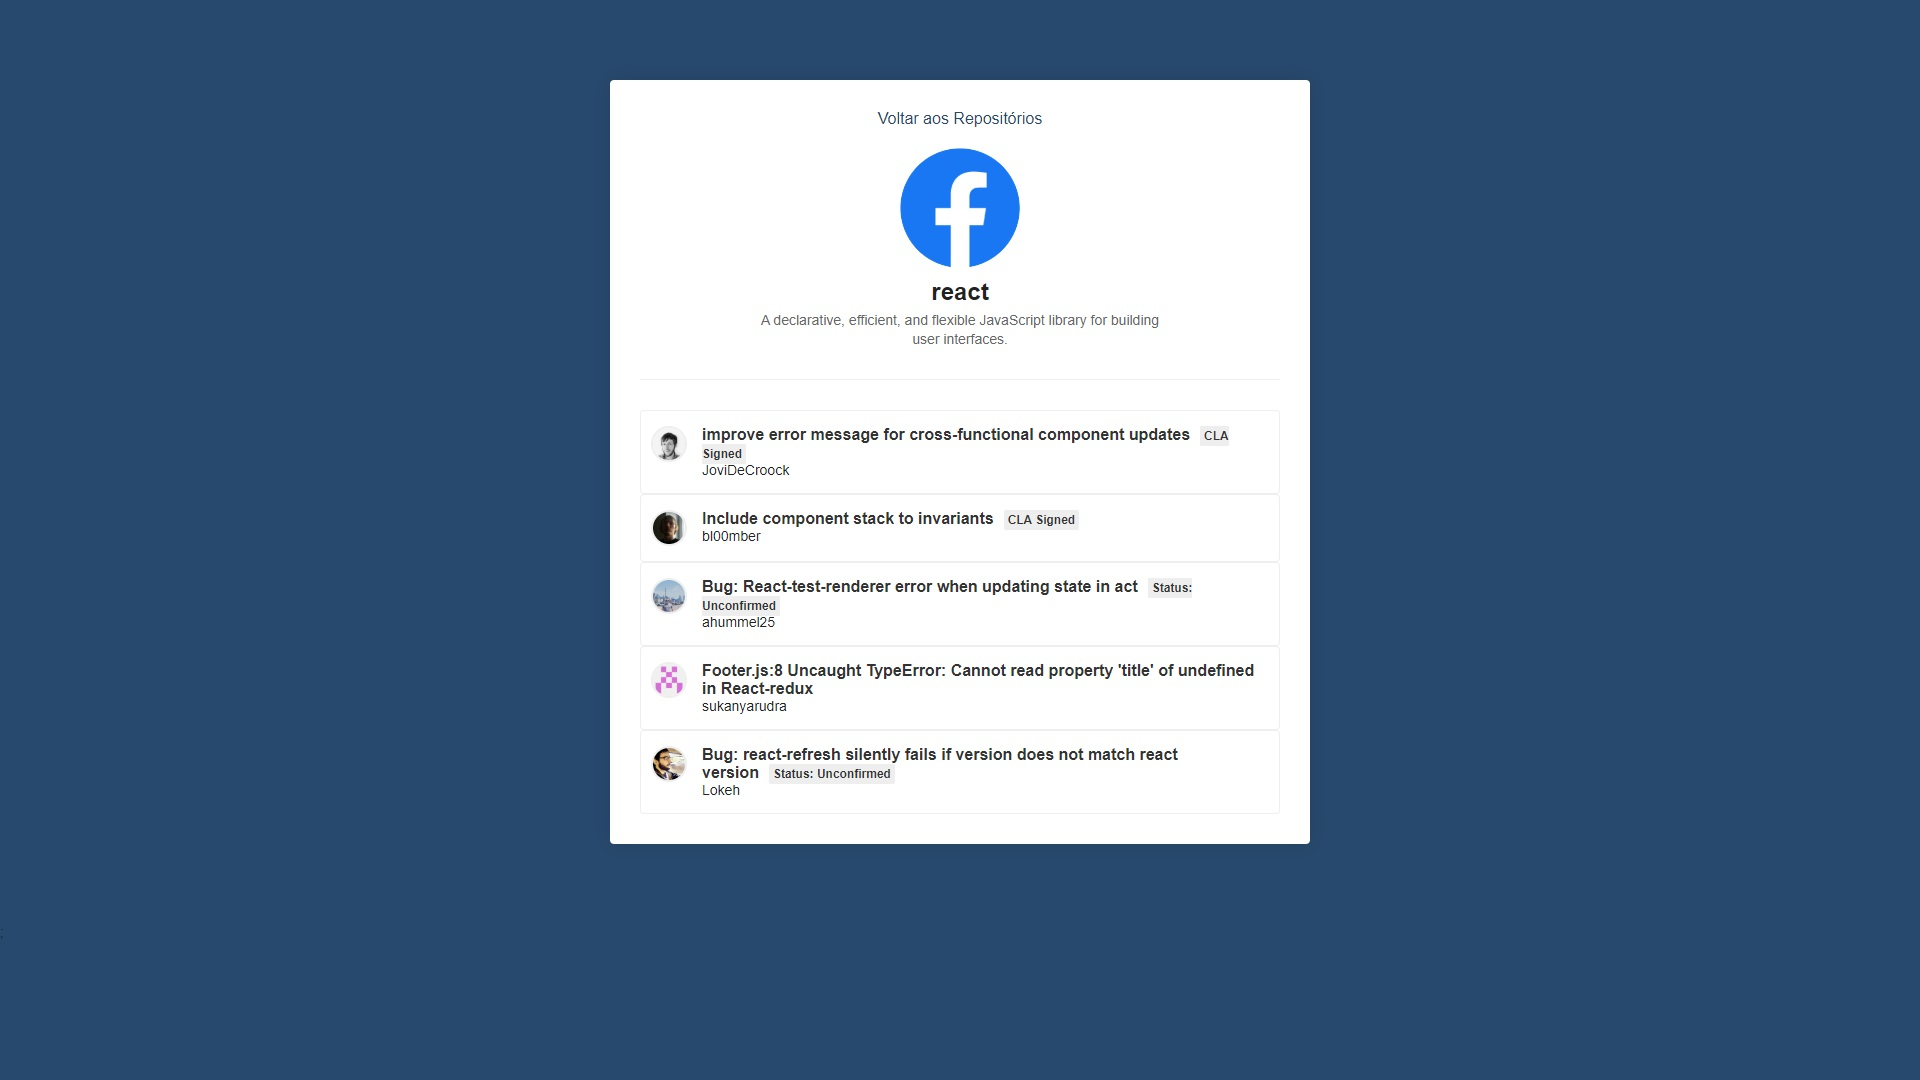
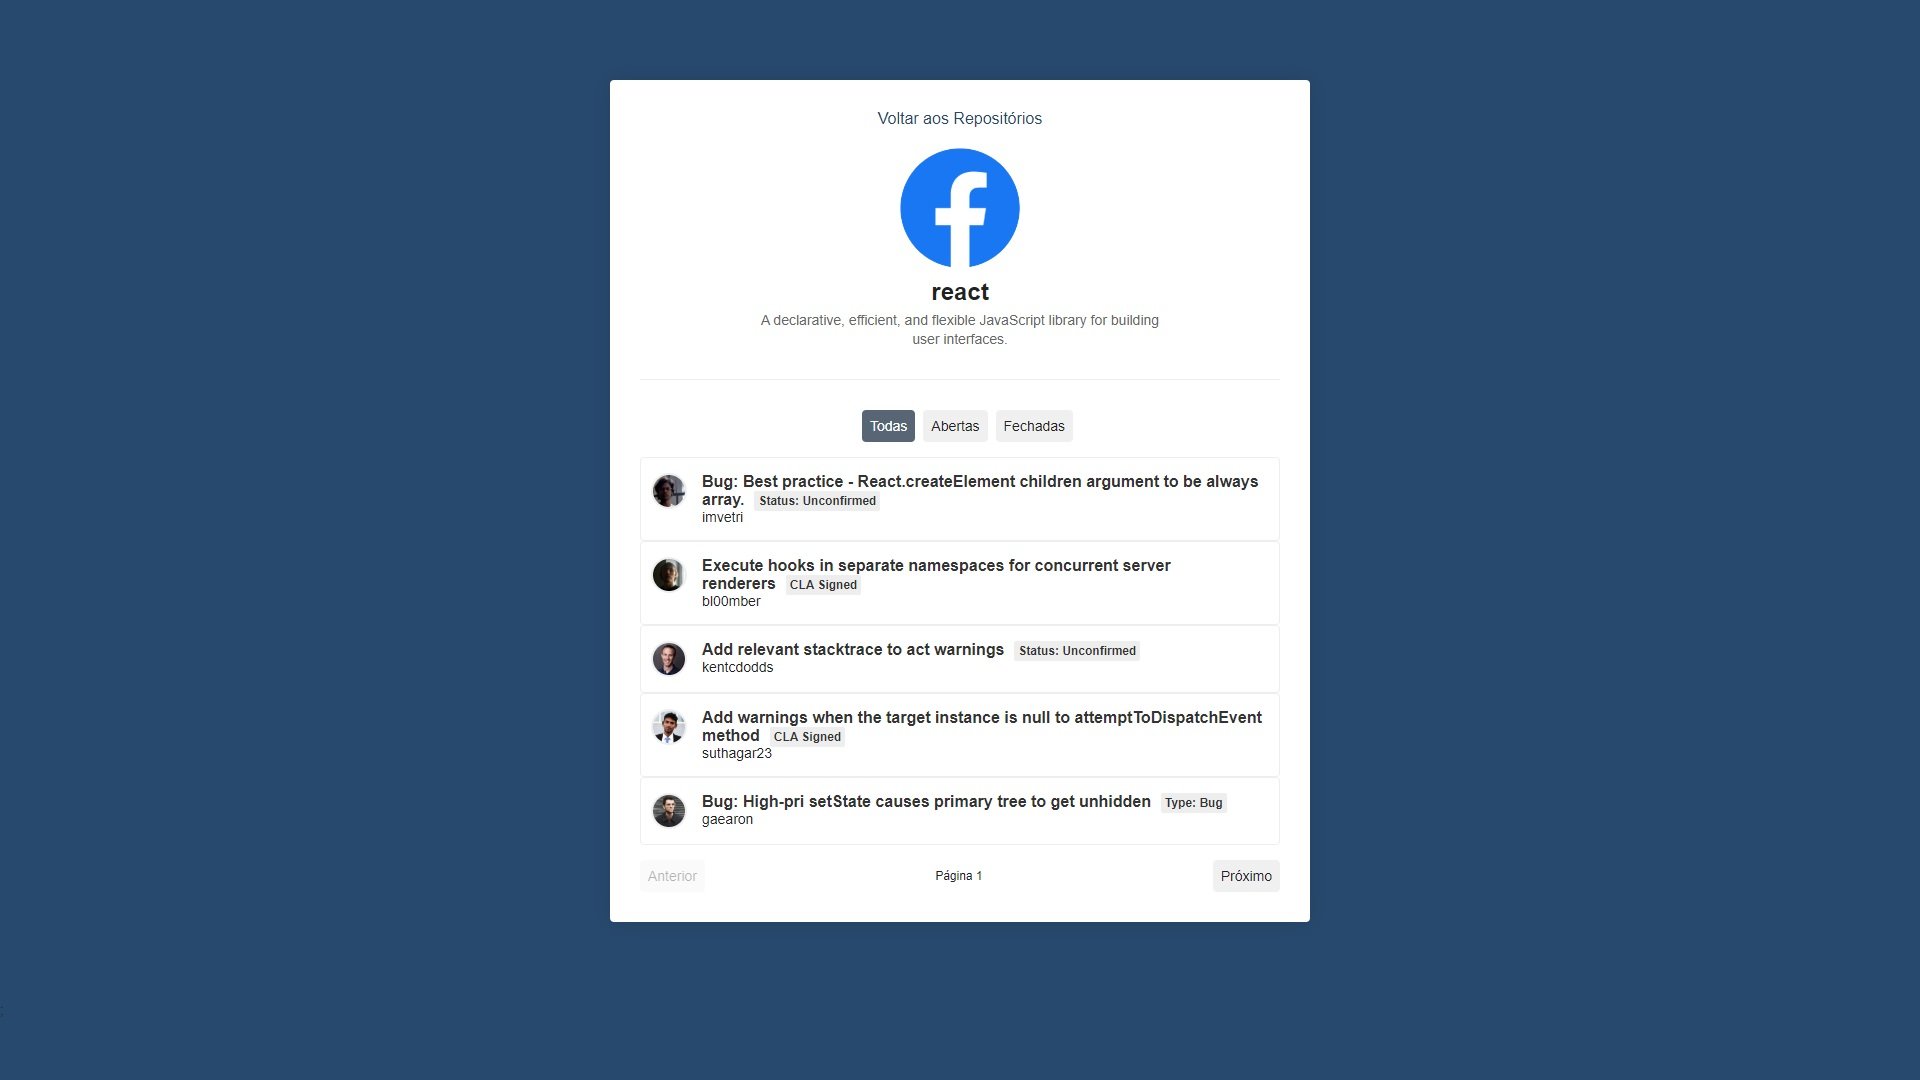
improving the application

Changed region(s): [[0.3125, 0.3667, 0.6875, 0.8556]]

diff --git a/src/pages/Repository/index.js b/src/pages/Repository/index.js
@@ -4,7 +4,7 @@ import PropTypes from 'prop-types';
 import api from '../../services/api';
 
 import Container from '../../components/Container';
-import { Loading, Owner, IssueList } from './styles';
+import { Loading, Owner, IssueList, IssueFilter, PageActions } from './styles';
 
 export default class Repository extends Component {
     static propTypes = {
@@ -19,10 +19,18 @@ export default class Repository extends Component {
         repository: {},
         issues: [],
         loading: true,
+        filters: [
+            { state: 'all', label: 'Todas', active: true },
+            { state: 'open', label: 'Abertas', active: false },
+            { state: 'closed', label: 'Fechadas', active: false },
+          ],
+          filterIndex: 0,
+          page: 1,
     };
 
     async componentDidMount() {
         const { match } = this.props;
+        const { filters } = this.state;
 
         const repoName = decodeURIComponent(match.params.repository);
 
@@ -30,7 +38,7 @@ export default class Repository extends Component {
             api.get(`/repos/${repoName}`),
             api.get(`/repos/${repoName}/issues`, {
                 params: {
-                    state: 'open',
+                    state: filters.find(f => f.active).state,
                     per_page: 5,
                 }
             })
@@ -43,9 +51,38 @@ export default class Repository extends Component {
         });
     }
 
+    loadIssues = async () => {
+        const { match } = this.props;
+        const {filters, filterIndex, page } = this.state;
+
+        const repoName = decodeURIComponent(match.params.repository);
+
+        const response = await api.get(`/repos/${repoName}/issues`, {
+            params: {
+                state: filters[filterIndex].state,
+                per_page: 5,
+                page,
+            }
+        });
+
+        this.setState({ issues: response.data });
+    };
+
+    handleFilterClick = async filterIndex => {
+        await this.setState({ filterIndex });
+        this.loadIssues();
+    };
+
+    handlePage = async action => {
+        const { page } = this.state;
+        await this.setState({
+            page: action === 'back' ? page - 1 : page + 1,
+        });
+        this.loadIssues();
+    }
 
     render() {
-        const { repository, issues, loading } = this.state;
+        const { repository, issues, loading, filters, filterIndex, page } = this.state;
 
         if (loading) {
             return <Loading>Carregando</Loading>
@@ -60,6 +97,18 @@ export default class Repository extends Component {
                 </Owner>
 
                 <IssueList>
+                    <IssueFilter active={filterIndex}>
+                        {filters.map((filter, index) => (
+                        <button
+                            type="button"
+                            key={filter.label}
+                            onClick={() => this.handleFilterClick(index)}
+                        >
+                            {filter.label}
+                        </button>
+                        ))}
+                    </IssueFilter>
+
                     {issues.map(issue => (
                         <li key={String(issue.id)}>
                             <img src={issue.user.avatar_url} alt={issue.user.login} />
@@ -75,6 +124,19 @@ export default class Repository extends Component {
                         </li>
                     ))}
                 </IssueList>
+                <PageActions>
+                    <button
+                        type="button"
+                        disabled={page < 2}
+                        onClick={() => this.handlePage('back')}
+                    >
+                        Anterior
+                    </button>
+                    <span>Página {page}</span>
+                    <button type="button" onClick={() => this.handlePage('next')}>
+                        Próximo
+                    </button>
+                </PageActions>
             </Container>
         );
     }

diff --git a/src/pages/Main/index.js b/src/pages/Main/index.js
@@ -12,6 +12,8 @@ export default class Main extends Component {
         newRepo: '',
         repositories: [],
         loading: false,
+        error: null,
+        message: null,
     };
 
     componentDidMount() {
@@ -37,24 +39,41 @@ export default class Main extends Component {
     handleSubmit = async e => {
         e.preventDefault();
 
-        this.setState({ loading: true });
+        this.setState({ loading: true, error: false, message: false });
 
         const { newRepo, repositories } = this.state;
-        const response = await api.get(`/repos/${newRepo}`);
 
-        const data = {
-            name: response.data.full_name,
-        };
+        try {
+            if (newRepo === '')
+                throw new Error('O repositório não pode ser vazio!');
 
-        this.setState({
-            repositories: [...repositories, data],
-            newRepo: '',
-            loading: false,
-        });
+            const hasRepo = repositories.find(repo => repo.name === newRepo);
+            if(hasRepo)
+                throw new Error('Repositório duplicado.');
+
+            const response = await api.get(`/repos/${newRepo}`);
+
+            const data = {
+                name: response.data.full_name,
+            };
+
+            this.setState({
+                repositories: [...repositories, data],
+                newRepo: '',
+                loading: false,
+            });
+        } catch (error) {
+            this.setState({
+                error: true,
+                message: error.message,
+            });
+        } finally {
+            this.setState({ loading: false });
+        }
     };
 
     render() {
-        const { newRepo, repositories, loading } = this.state;
+        const { newRepo, repositories, loading, error, message } = this.state;
 
         return (
             <Container>
@@ -79,6 +98,8 @@ export default class Main extends Component {
                         )}
                     </SubmitButton>
                 </Form>
+
+                <small>{message}</small>
 
                 <List>
                     {repositories.map(repository => (

diff --git a/src/pages/Repository/styles.js b/src/pages/Repository/styles.js
@@ -101,3 +101,39 @@ export const IssueList = styled.ul`
         }
     }
 `;
+
+export const IssueFilter = styled.div`
+  display: flex;
+  justify-content: center;
+  padding-bottom: 15px;
+  button {
+    border-radius: 4px;
+    outline: 0;
+    border: 0;
+    padding: 8px;
+    margin: 0 0.25rem;
+    &:nth-child(${props => props.active + 1}) {
+      background: #576574;
+      color: white;
+    }
+  }
+`;
+
+export const PageActions = styled.div`
+  padding-top: 15px;
+  display: flex;
+  justify-content: space-between;
+  align-items: center;
+  font-size: 12px;
+  button {
+    transition: opacity 0.25s ease-out;
+    border-radius: 4px;
+    outline: 0;
+    border: 0;
+    padding: 8px;
+    &:disabled {
+      opacity: 0.35;
+      cursor: not-allowed;
+    }
+  }
+`;

diff --git a/README.md b/README.md
@@ -4,12 +4,13 @@ Olá! Seja bem-vindo ao repositório do List Users Repositories.
 
 ## Aplicação
 
-O **List Users Repositories** recebe nomes de repositórios do Github e mostra suas últimas 5 issues. É uma proposta simples. Foi desenvolvido com ReactJS.
+O **List Users Repositories** recebe nomes de repositórios do Github e mostra suas issues. É uma proposta simples. Foi desenvolvido com ReactJS.
 
-## Veja Funcionando
-
-[![Assista uma demonstração](https://img.youtube.com/vi/DrVevcdJeMo/0.jpg)](https://www.youtube.com/watch?v=DrVevcdJeMo)
-
+## Upgrades
+- [x] Captar erros (try/catch)
+- [x] Verificar se o repositório é duplicado
+- [x] Filtro de estado na issue (open, closed, all)
+- [x] Paginação
 
 ## Screenshots
 
